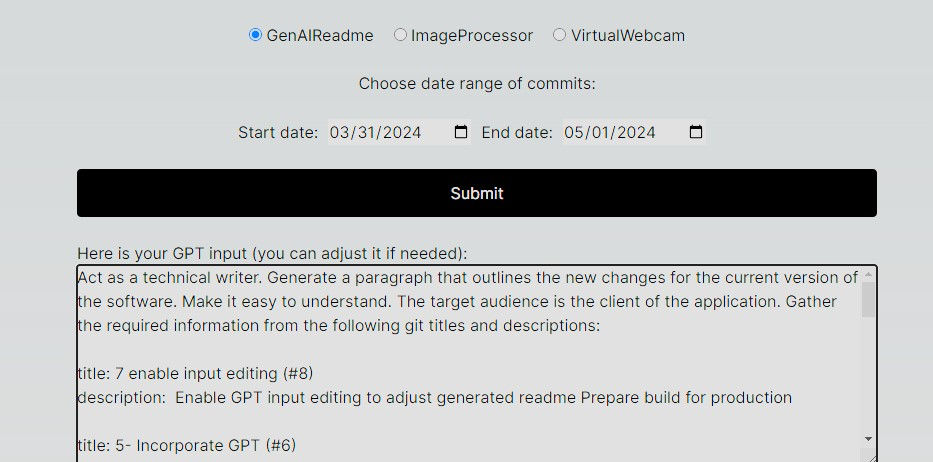
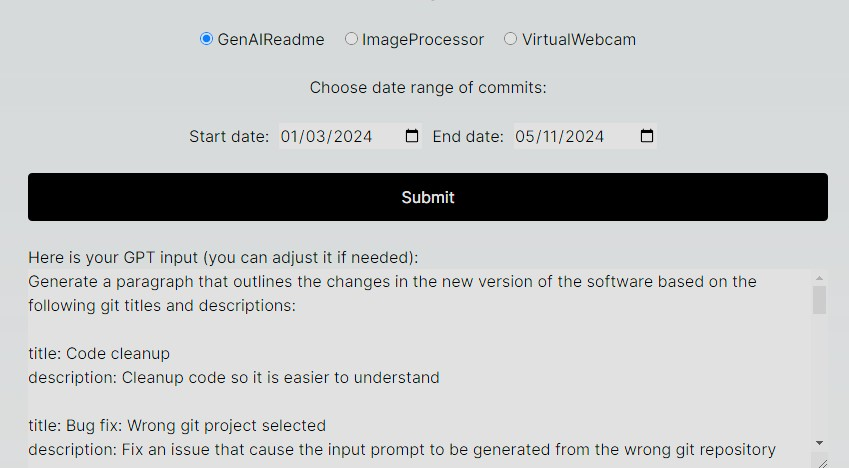
9 - implement roles (#10)
Added roles to messages for a better response from GPT. GPT should know what kind of tone to take when generating the response.

diff --git a/app/api/gptoutput/route.js b/app/api/gptoutput/route.js
@@ -6,6 +6,20 @@ import OpenAI from "openai";
 let gptOutput = "";
 let isGenerating = false;
 
+const initialMessages = [
+    {"role": "system", "content": "You are an assistant that summarizes the work done in a GitHub repository in a simple terms for the client."},
+    {"role": "user", "content": "Generate a paragraph that outlines the new changes for the current version of the software. "
+        + "Make it easy to understand. The target audience is the client of the application. " 
+        + "Gather the required information from the following git titles and descriptions:\n\n"
+        + "title: Fix crash at startup\ndescription: Fix a bug that prevented the app from starting.\n\n"
+        + "title: Fix high memory usage.\ndescription: Optimized performance of the application and introduced new data structure that saves 25% of RAM."},
+    {"role": "assistant", "content": "In this latest version of our software, we've made significant improvements to enhance your experience. "
+        + "First off, we've addressed a bug that was causing the app to crash at startup, ensuring smoother navigation right from the get-go. "
+        + "Additionally, we've fine-tuned the performance, notably reducing memory usage. By implementing a new data structure, we've managed "
+        + "to cut down on RAM usage by a substantial 25%, making the application more efficient and responsive. These updates not only improve "
+        + "stability but also enhance overall performance, providing you with a better and more reliable user experience."}        
+];
+
 export async function GET(request)
 {
     return NextResponse.json({gptOutput: gptOutput, isGenerating: isGenerating});
@@ -20,10 +34,13 @@ export async function POST(request) {
       gptOutput = ""; 
       isGenerating = true;
 
+      let messageHistory = initialMessages;
+      messageHistory.push({"role" : "user", "content": data.gptInput});
+
       const openai = new OpenAI({apiKey: process.env.GENAI_README_OPENAI_SECRET_KEY});
       const stream = await openai.chat.completions.create({
           model: "gpt-3.5-turbo",
-          messages: [{ role: "user", content: data.gptInput }],
+          messages: messageHistory,
           stream: true,
       });
       
@@ -31,7 +48,6 @@ export async function POST(request) {
           process.stdout.write(chunk.choices[0]?.delta?.content || "");
           gptOutput += chunk.choices[0]?.delta?.content || "";
       }
-
 
       isGenerating = false;
     }

diff --git a/app/GPTIO.js b/app/GPTIO.js
@@ -13,9 +13,8 @@ export default function GPTIO({gitCommits})
     
         if(gitCommits)
         {
-            gptInputText = "Act as a technical writer. Generate a paragraph that outlines the new changes for the current version of the software. ";
-            gptInputText += "Make it easy to understand. The target audience is the client of the application. ";
-            gptInputText += "Gather the required information from the following git titles and descriptions:\n\n";
+            gptInputText = "Generate a paragraph that outlines the changes in the new version of the software based on the following "
+                + "git titles and descriptions:\n\n";
             const jsonObj = JSON.parse(gitCommits);
             jsonObj.commits.forEach(element => {
                 gptInputText += "title: " + element.title + "\n"; 

diff --git a/README.md b/README.md
@@ -44,7 +44,7 @@ To build and deploy for production use:
 The production will be deployed to localhost port 80 automatically. 
 
 ## 3. Example
-If you have the current repository (GenAIReadme) with the commit selected between 03/31/2024 and 05/01/2024, you will get a similar prompt generated by the server:
+If you have the current repository (GenAIReadme) with the commit selected between 01/03/2024 and 05/11/2024, you will get a similar prompt generated by the server:
 
 ![example prompt](./doc/example_prompt.jpg)
 
